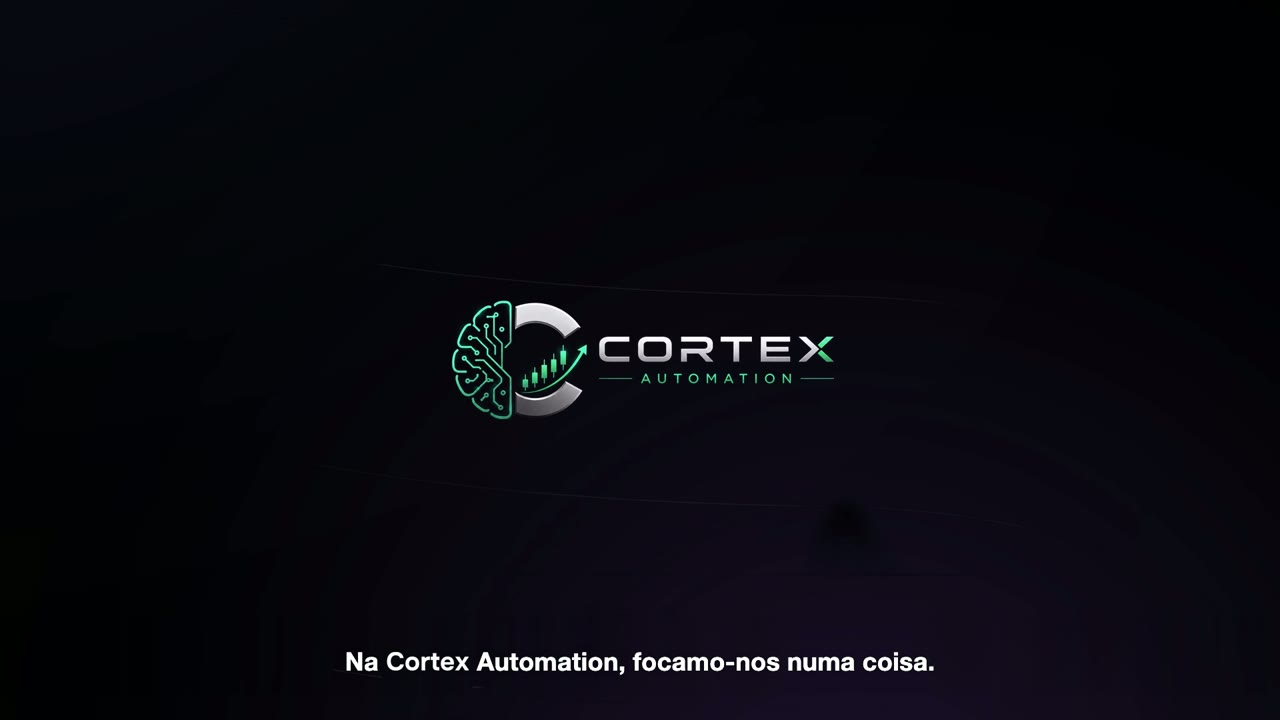
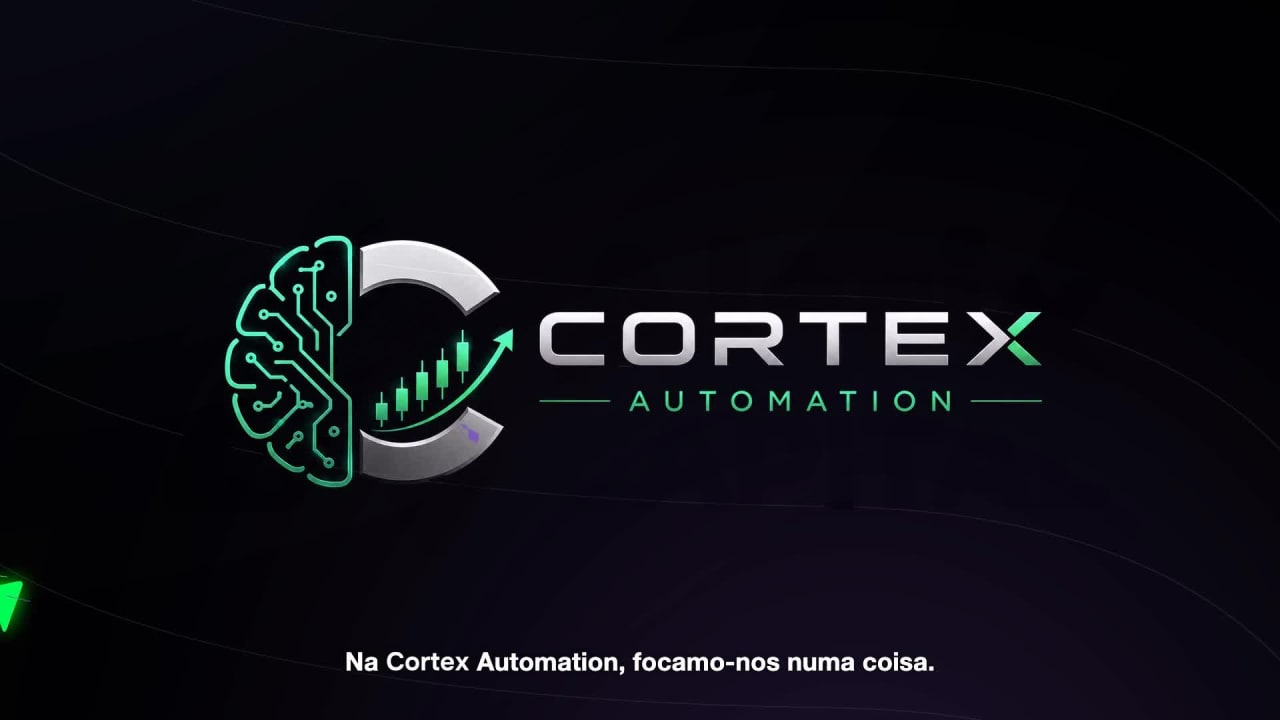
Drawdown mensal fora da secção de risco, e vídeo novo
Os 17,60% são a maior queda seguida dos 32 meses e passam a aparecer só
onde essa métrica interessa: na secção "quanto pode perder", na barra de
comparação com o S&P 500 e numa linha do aviso legal do rodapé.

Nos restantes sítios — hero, secção do porquê, FAQ e JSON-LD — passa a
estar o drawdown máximo mensal: 13,83%, o pior dos três anos (2024
9,75% · 2025 7,52% · 2026 13,83%).

Vídeo novo, com a nova narração dos 4,38%. Entregue pela Cloudinary com
q_auto, f_auto e w_1280: 4,55 MB em vez dos 24,77 MB do original, em
1280x720. Poster novo tirado do primeiro plano do próprio vídeo, com o
logótipo completo.

Changed region(s): [[0.1562, 0.3056, 0.8125, 0.7028], [0.0, 0.7944, 0.0312, 0.8861]]

diff --git a/index.html b/index.html
@@ -80,7 +80,7 @@
         { "@type": "Question", "name": "Qual é o depósito mínimo?",
           "acceptedAnswer": { "@type": "Answer", "text": "500 euros, correspondente ao escalão Standard. Recomendamos começar com um valor confortável e que esteja disposto a arriscar." } },
         { "@type": "Question", "name": "Quais são os riscos?",
-          "acceptedAnswer": { "@type": "Answer", "text": "Todo o trading envolve risco significativo de perda de capital e a rentabilidade passada não é indicativa de resultados futuros. A maior queda registada no histórico apresentado foi de 17,60%, à escala de 1% de risco por operação. De Janeiro de 2024 a Janeiro de 2026 os resultados são de teste sobre dados históricos; a partir de Fevereiro de 2026 correspondem a uma conta real. As condições de mercado podem mudar a qualquer momento e nenhuma estratégia elimina o risco. Invista apenas capital que possa perder." } },
+          "acceptedAnswer": { "@type": "Answer", "text": "Todo o trading envolve risco significativo de perda de capital e a rentabilidade passada não é indicativa de resultados futuros. O drawdown máximo mensal no histórico apresentado foi de 13,83%, e a maior queda seguida do período foi de 17,60%, à escala de 1% de risco por operação. De Janeiro de 2024 a Janeiro de 2026 os resultados são de teste sobre dados históricos; a partir de Fevereiro de 2026 correspondem a uma conta real. As condições de mercado podem mudar a qualquer momento e nenhuma estratégia elimina o risco. Invista apenas capital que possa perder." } },
         { "@type": "Question", "name": "Posso levantar o dinheiro quando quiser?",
           "acceptedAnswer": { "@type": "Answer", "text": "Sim. Como os fundos permanecem na sua conta de corretora, o levantamento é feito por si, directamente na corretora, sem períodos de bloqueio, taxas de saída nem penalizações." } },
         { "@type": "Question", "name": "Como começo?",
@@ -182,7 +182,7 @@
     <!-- 2 · Vídeo de apresentação (entregue pela CDN da Cloudinary) -->
     <figure class="vsl__box hero__fade" id="vslBox" style="--rd:.24s">
       <video id="vslVideo" class="vsl__video" poster="assets/vsl-poster.jpg" preload="metadata" playsinline controls controlslist="nodownload" width="1280" height="720">
-        <source src="https://res.cloudinary.com/mzqx3xbc/video/upload/q_auto/f_auto/v1789233073/vsl-720.mp4" type="video/mp4">
+        <source src="https://res.cloudinary.com/mzqx3xbc/video/upload/q_auto,f_auto,w_1280/v1790149986/Cortex_Automation_-_FINAL_4.38_v2.mp4" type="video/mp4">
         <p class="small">O seu navegador n&atilde;o consegue reproduzir este v&iacute;deo.</p>
       </video>
       <button type="button" class="vsl__play" id="vslPlay" aria-label="Reproduzir o v&iacute;deo de apresenta&ccedil;&atilde;o">
@@ -193,7 +193,7 @@
       </button>
       <p class="vsl__fb" id="vslFallback" hidden>
         N&atilde;o foi poss&iacute;vel reproduzir o v&iacute;deo aqui.
-        <a href="https://res.cloudinary.com/mzqx3xbc/video/upload/q_auto/f_auto/v1789233073/vsl-720.mp4" target="_blank" rel="noopener">Abrir num separador novo</a>.
+        <a href="https://res.cloudinary.com/mzqx3xbc/video/upload/q_auto,f_auto,w_1280/v1790149986/Cortex_Automation_-_FINAL_4.38_v2.mp4" target="_blank" rel="noopener">Abrir num separador novo</a>.
       </p>
     </figure>
 
@@ -227,7 +227,7 @@
           <div class="proof__cell"><dt>2025</dt><dd class="c-gain">+76,09%</dd></div>
           <div class="proof__cell"><dt>2024</dt><dd class="c-gain">+38,77%</dd></div>
           <div class="proof__cell proof__cell--hi"><dt>Total de juro composto desde 2024</dt><dd class="c-gain">+271,95%</dd></div>
-          <div class="proof__cell"><dt>Maior queda</dt><dd>17,60%</dd></div>
+          <div class="proof__cell"><dt>Drawdown m&aacute;ximo mensal</dt><dd>13,83%</dd></div>
           <div class="proof__cell"><dt>Risco por opera&ccedil;&atilde;o</dt><dd>1%</dd></div>
           <div class="proof__cell"><dt>Custos de ades&atilde;o</dt><dd class="proof__cell--sm">Zero &middot; s&oacute; partilha de lucro</dd></div>
         </dl>
@@ -822,7 +822,7 @@
         <article class="why__item reveal">
           <div class="card__ico"><svg width="19" height="19" viewBox="0 0 24 24" fill="none" stroke="currentColor" stroke-width="1.9" stroke-linecap="round" stroke-linejoin="round" aria-hidden="true"><path d="M3 17l5-6 4 4 4-6 5 5"/></svg></div>
           <h3 class="h3">Desempenho histórico</h3>
-          <p><strong style="color:var(--fg);font-weight:600">+271,95%</strong> com juro composto desde Janeiro de 2024 — 32 meses, 25 deles positivos — com uma queda máxima de <strong style="color:var(--fg);font-weight:600">17,60%</strong>. Dá <strong style="color:var(--fg);font-weight:600">+63,66% ao ano</strong>.</p>
+          <p><strong style="color:var(--fg);font-weight:600">+271,95%</strong> com juro composto desde Janeiro de 2024 — 32 meses, 25 deles positivos — com um drawdown máximo mensal de <strong style="color:var(--fg);font-weight:600">13,83%</strong>. Dá <strong style="color:var(--fg);font-weight:600">+63,66% ao ano</strong>.</p>
         </article>
 
         <article class="why__item reveal">
@@ -834,7 +834,7 @@
         <article class="why__item reveal">
           <div class="card__ico"><svg width="19" height="19" viewBox="0 0 24 24" fill="none" stroke="currentColor" stroke-width="1.9" stroke-linecap="round" stroke-linejoin="round" aria-hidden="true"><path d="M12 3 4 6v6c0 4.6 3.4 8.4 8 9 4.6-.6 8-4.4 8-9V6l-8-3Z"/><path d="m9 12 2 2 4-4"/></svg></div>
           <h3 class="h3">Abordagem centrada no risco</h3>
-          <p>Apenas <strong style="color:var(--fg);font-weight:600">1% de risco por operação</strong>, com stop-loss obrigatório e gestão adaptativa de posições. É isso que mantém a maior queda abaixo dos 18% em quase três anos de histórico.</p>
+          <p>Apenas <strong style="color:var(--fg);font-weight:600">1% de risco por operação</strong>, com stop-loss obrigatório e gestão adaptativa de posições. É isso que mantém o drawdown mensal abaixo dos 14% em quase três anos de histórico.</p>
         </article>
 
         <article class="why__item reveal">
@@ -1262,7 +1262,7 @@
 
       <div class="faq__item">
         <button class="faq__q" aria-expanded="false"><span>Quais são os riscos?</span><span class="faq__ico" aria-hidden="true"></span></button>
-        <div class="faq__a"><div><p>Todo o trading envolve risco, e a rentabilidade passada não é indicativa de resultados futuros. Ainda que o histórico seja forte — <strong>+140,26% desde Janeiro de 2024</strong>, com uma queda máxima de <strong>17,60%</strong> e <strong>1% de risco por operação</strong> — as condições de mercado podem mudar a qualquer momento, e parte desse histórico são resultados de teste, não dinheiro real.</p><p>O sistema foi concebido para se adaptar à evolução das estruturas de mercado e inclui controlos de risco integrados para ajudar a gerir a exposição, mas <strong>nenhuma estratégia elimina o risco por completo</strong>. Deve alocar apenas capital que esteja totalmente preparado para arriscar.</p><p>As métricas históricas reflectem como a estratégia se comportou no passado, mas não garantem resultados semelhantes no futuro. Em 32 meses, 7 fecharam negativos — o pior foi Agosto de 2026.</p></div></div>
+        <div class="faq__a"><div><p>Todo o trading envolve risco, e a rentabilidade passada não é indicativa de resultados futuros. Ainda que o histórico seja forte — <strong>+271,95% com juro composto desde Janeiro de 2024</strong>, com um drawdown máximo mensal de <strong>13,83%</strong> e <strong>1% de risco por operação</strong> — as condições de mercado podem mudar a qualquer momento, e parte desse histórico são resultados de teste, não dinheiro real.</p><p>O sistema foi concebido para se adaptar à evolução das estruturas de mercado e inclui controlos de risco integrados para ajudar a gerir a exposição, mas <strong>nenhuma estratégia elimina o risco por completo</strong>. Deve alocar apenas capital que esteja totalmente preparado para arriscar.</p><p>As métricas históricas reflectem como a estratégia se comportou no passado, mas não garantem resultados semelhantes no futuro. Em 32 meses, 7 fecharam negativos — o pior foi Agosto de 2026.</p></div></div>
       </div>
 
       <div class="faq__item">
@@ -1382,7 +1382,8 @@
         A rentabilidade passada não é indicativa de resultados futuros. A informação disponibilizada
         não constitui aconselhamento de investimento. Deve investir apenas capital que possa perder.
         A Cortex Automation executa operações em seu nome, mas não pode garantir lucros.
-        Maior queda registada: 17,60%, à escala de 1% de risco por operação, entre Janeiro de 2024 e Agosto de 2026.
+        Drawdown máximo mensal: 13,83%, à escala de 1% de risco por operação, entre Janeiro de 2024 e Agosto de 2026.
+        A maior queda seguida no período foi de 17,60%.
         Rentabilidade acumulada com juro composto no período: +271,95%.
         Rentabilidade acumulada com juro composto no período: +271,95%.
         De Janeiro de 2024 a Janeiro de 2026 os resultados apresentados são de teste sobre dados históricos e não
